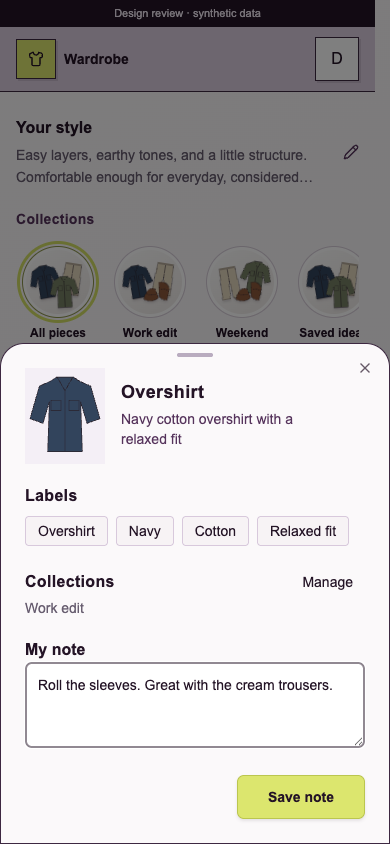
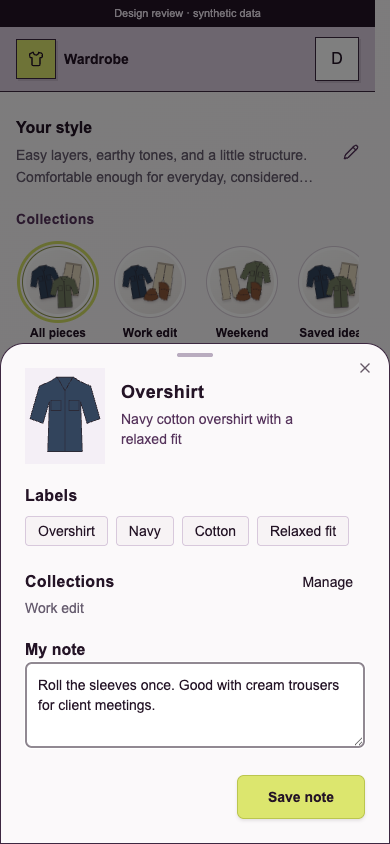
Use slim neutral hanger frames behind garment photos

Changed region(s): [[0.0923, 0.8009, 0.8615, 0.8626]]

diff --git a/apps/web/src/app/globals.css b/apps/web/src/app/globals.css
@@ -746,17 +746,16 @@ h4 {
 .collection-ensemble-piece--2 { left:32%; top:36%; height:63%; transform:rotate(-3deg); z-index:3; }
 .collection-ensemble--1 .collection-ensemble-piece { width:80%; height:90%; left:10%; top:5%; transform:rotate(-5deg); }
 .collection-piece-grid { padding-top:13px; row-gap:26px; }
-/* Upright garment silhouette, warm wood hanger, and a real hanging paper tag. */
+/* A complete open-center hanger sits behind the garment photo and paper tag. */
 .rack-piece { --rack-item-accent:#d7c8b9; position:relative; width:100%; min-width:0; color:var(--rack-ink); }
 .rack-piece-stage { position:relative; aspect-ratio:.85; isolation:isolate; }
 .rack-piece-silhouette { position:absolute; inset:0; width:100%; height:100%; overflow:visible; filter:drop-shadow(0 2px 2px rgb(36 20 38 / .07)); }
 .rack-piece-silhouette path { fill:color-mix(in srgb,var(--rack-item-accent) 13%,#f7f5f2); stroke:#e3dde3; stroke-width:1; vector-effect:non-scaling-stroke; stroke-linejoin:round; }
-.rack-piece-hanger { position:absolute; width:61%; height:auto; top:-13px; left:19.5%; z-index:1; overflow:visible; }
-.rack-piece-hook { fill:none; stroke:#493b34; stroke-width:1.65; stroke-linecap:round; }
-.rack-piece-wood { fill:#b2967e; stroke:#785f50; stroke-width:.9; stroke-linejoin:round; filter:drop-shadow(0 1px 1px rgb(36 20 38 / .15)); }
-.rack-piece-grain { fill:none; stroke:#d2bda7; stroke-width:1; opacity:.8; }
+.rack-piece-hanger { position:absolute; width:86%; height:auto; top:-13px; left:7%; z-index:1; overflow:visible; }
+.rack-piece-hook, .rack-piece-frame { fill:none; stroke:#666; stroke-linecap:round; stroke-linejoin:round; vector-effect:non-scaling-stroke; }
+.rack-piece-hook { stroke-width:1.6; }
+.rack-piece-frame { stroke-width:2.2; }
 .rack-piece-photo { position:absolute; inset:12% 5% 0; z-index:2; }
-.rack-piece-photo img { mix-blend-mode:multiply; }
 .rack-piece-tag { position:absolute; z-index:3; right:3px; top:8px; width:34px; height:53px; transform:rotate(4deg); filter:drop-shadow(1px 2px 1px rgb(36 20 38 / .22)); }
 .rack-piece-tag-outline { position:absolute; inset:0; width:100%; height:100%; overflow:visible; }
 .rack-piece-tag-cord { fill:none; stroke:#9a8570; stroke-width:1; }

diff --git a/apps/web/src/components/RackItemCard.tsx b/apps/web/src/components/RackItemCard.tsx
@@ -118,20 +118,16 @@ export default function RackItemCard({
           </svg>
           <svg
             className="rack-piece-hanger"
-            viewBox="0 0 100 60"
+            viewBox="0 0 100 66"
             aria-hidden="true"
           >
             <path
               className="rack-piece-hook"
-              d="M45 12C42 2 59 1 57 11C56 15 50 16 50 21V26"
+              d="M46 12C42 5 49 0 54 4C61 10 53 16 50 20V28"
             />
             <path
-              className="rack-piece-wood"
-              d="M46 25Q50 21 54 25L91 43Q95 47 90 49Q70 50 53 44Q50 43 47 44Q30 50 10 49Q5 47 9 43Z"
-            />
-            <path
-              className="rack-piece-grain"
-              d="M12 45L46 28Q50 26 54 28L88 45"
+              className="rack-piece-frame"
+              d="M50 28C43 28 37 31 31 35L7 47Q3 49 4 53Q4 56 8 56H92Q96 56 96 52Q96 49 93 47L69 35C63 31 57 28 50 28Z"
             />
           </svg>
           <div className="rack-piece-photo">

diff --git a/docs/design/collections/README.md b/docs/design/collections/README.md
@@ -7,7 +7,7 @@ This follows the September 21 design review and [product program #60](https://gi
 ## Review the interaction
 
 - Wardrobe begins with compact editable style notes, then a horizontal collection rail. Collection circles compose actual member photos into small ensembles; empty collections use a quiet folder. Collections have immediate Pieces and Inspiration views, an edit control, and an Add from wardrobe picker.
-- The entire shirt-shaped card opens its drawer. Labels, Collections, and My note are distinct; Manage changes membership and Save note persists the personal note. Warm wooden hangers, lightly tinted garment silhouettes, and shaped hanging tags follow the approved render. Tags carry a collection affordance and an actual note indicator; the caption names the piece.
+- The entire shirt-shaped card opens its drawer. Labels, Collections, and My note are distinct; Manage changes membership and Save note persists the personal note. Slim neutral gray hangers have a complete closed outline with an empty center, layered behind the garment photo so pieces overlap naturally. Lightly tinted garment silhouettes and shaped hanging tags retain the approved render's styling. Tags carry a collection affordance and an actual note indicator; the caption names the piece.
 - Fits opens with Plan / Diary. Plan shows today plus six days, a description/dictation entry, nearby calendar context, and one selected outfit. The global Add action serves capture; duplicate upload cards are removed.
 - Relevant collections are recalled automatically when generating a reviewed day or week. Already planned/worn outfits remain protected. Past planned outfits can still be corrected from Diary.
 
@@ -15,7 +15,9 @@ This follows the September 21 design review and [product program #60](https://gi
 | --- | --- | --- |
 | ![Wardrobe on a phone](wardrobe-mobile.png) | ![Item labels, collections, and note](item-drawer-mobile.png) | ![Near-term outfit Plan](plan-mobile.png) |
 
-[Approved render](approved-render.png) · [Desktop Wardrobe](wardrobe-desktop.png)
+[Original approved render](approved-render.png) · [Desktop Wardrobe](wardrobe-desktop.png)
+
+The screenshots include the September 22 refinement: thin neutral hangers with an open center replace the original render's filled wooden shoulders, following David's real hanger reference.
 
 Screenshots and the standalone gallery use synthetic garment illustrations, account data, and calendar events. The gallery renders the real components and stylesheet; external auth, storage, provider calls, and persistence boundaries are simulated. The application uses authenticated Convex functions, not gallery state.
 

diff --git a/apps/web/DESIGN.md b/apps/web/DESIGN.md
@@ -72,7 +72,7 @@ Try-on feedback should read like a considered styling note, not a shopping score
 
 Collections are named, user-described groups within Wardrobe. Use a condensed horizontal rail with an All pieces entry. Each circle composes up to three actual member images into an ensemble, with contained photos and a clear selected ring. The selected collection exposes Pieces and Inspiration side by side as immediate view controls; neither belongs below a long list of the other. Add existing owned pieces through a compact picker.
 
-The full shirt-shaped card opens a bottom drawer on phones and a side drawer on larger screens. Preserve photo-derived accents and contain the whole garment photo. Use a warm wooden hanger with a thin metal hook, a lightly tinted garment silhouette, and a vertically hanging shaped tag. Tags show a collection affordance and a personal-note indicator; put the category and details arrow in the caption. In the drawer, show attribute Labels, Collections with Manage, and My note with an explicit Save action.
+The full shirt-shaped card opens a bottom drawer on phones and a side drawer on larger screens. Preserve photo-derived accents and contain the whole garment photo. Use a slim neutral gray hanger with curved shoulders, a complete closed outline, and an empty center. Draw the entire hanger behind the garment photo so the item can overlap it; do not fill the hanger or imply wood. Retain the lightly tinted garment silhouette and vertically hanging shaped tag. Tags show a collection affordance and a personal-note indicator; put the category and details arrow in the caption. In the drawer, show attribute Labels, Collections with Manage, and My note with an explicit Save action.
 
 Fits starts with a Plan / Diary switch. Plan uses a seven-day strip and one selected outfit, with a short dictation prompt and calendar context nearby. Put Use this fit beside the outfit and keep swapping and explanations available as compact disclosures. No manual collection selector or duplicate capture cards. Past planned outfits can be corrected from Diary.
 

diff --git a/apps/web/PRODUCT.md b/apps/web/PRODUCT.md
@@ -36,7 +36,7 @@ Avoid fashion editorial layouts, generic SaaS/dashboard templates, and common AI
 
 ## Design Principles
 
-Keep the rack metaphor central where it helps recognition: item rack cards should continue to read like shirts on hangers (upright compact cards in the catalog; sideways cards may remain in other surfaces), with softly shaded wooden hangers and physical hang tags. Collection circles show an ensemble of their actual pieces or inspiration; use a quiet folder only when no preview is available.
+Keep the rack metaphor central where it helps recognition: item rack cards should continue to read like shirts on hangers (upright compact cards in the catalog; sideways cards may remain in other surfaces), with slim neutral hangers and physical hang tags. The upright hanger is a complete closed outline with an empty center, layered behind the item photo. Collection circles show an ensemble of their actual pieces or inspiration; use a quiet folder only when no preview is available.
 
 Make the interface playful through product-specific structure, not through arbitrary decoration. The clothing metaphor should explain the screen and make it memorable.
 
